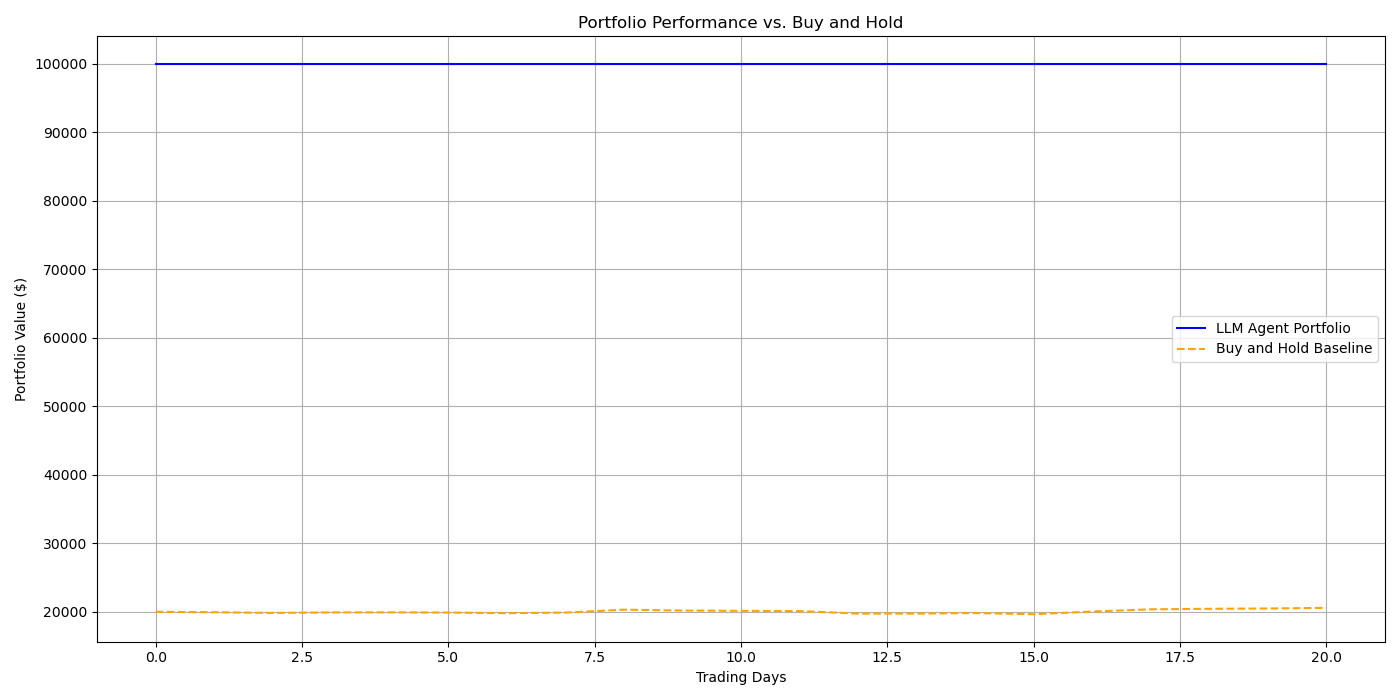
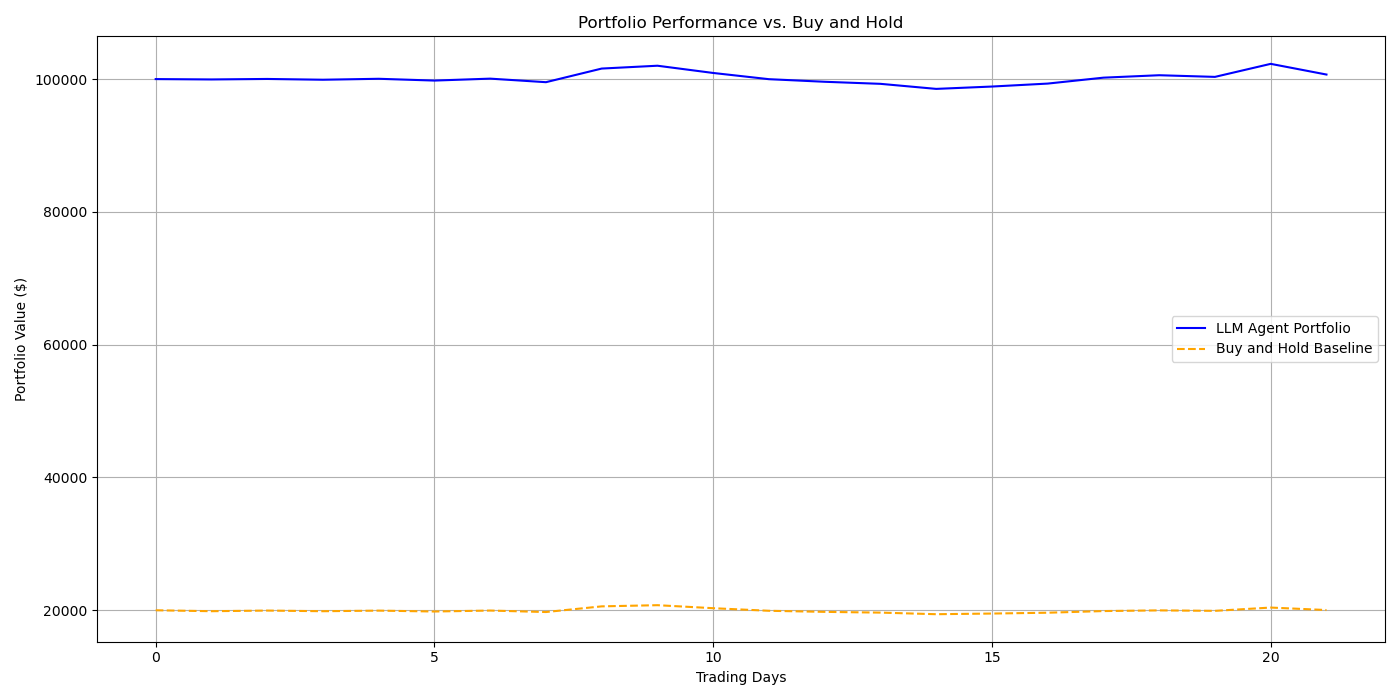
çalışıyor subanallah

diff --git a/src/llm_agent.py b/src/llm_agent.py
@@ -42,7 +42,6 @@ def get_llm_decision(prompt, available_tickers):
 
     try:
         # --- DEBUG: Log the prompt to see what data is being sent ---
-        # Changed from log.debug to log.info to ensure visibility in console
         log.info(f"Sending PROMPT to {provider}:\n{prompt}")
         
         result = None
@@ -100,10 +99,20 @@ def _get_openai_decision(prompt):
 def _get_openrouter_decision(prompt, model_config):
     alias = model_config['alias']
     def api_call():
+        # --- FIX: Add reasoning parameter to match curl request ---
+        payload = {
+            "model": model_config['model_name'],
+            "messages": [{"role": "user", "content": prompt}],
+            "reasoning": {"enabled": True}
+        }
+        
         response = clients['openrouter']['session'].post(
             url="https://openrouter.ai/api/v1/chat/completions",
-            headers={"Authorization": f"Bearer {config.OPEN_ROUTER_KEY}"},
-            data=json.dumps({"model": model_config['model_name'], "messages": [{"role": "user", "content": prompt}]})
+            headers={
+                "Authorization": f"Bearer {config.OPEN_ROUTER_KEY}",
+                "Content-Type": "application/json"
+            },
+            data=json.dumps(payload)
         )
         response.raise_for_status()
         return response.json()['choices'][0]['message']['content']

diff --git a/config.py b/config.py
@@ -7,7 +7,7 @@ load_dotenv()
 # --- Simulation Configuration ---
 TICKERS = ["AAPL", "MSFT", "NVDA", "TSLA", "AMZN"]
 INITIAL_CASH = 100000
-SIMULATION_DAYS = 7  # Reduced to 7 days (1 week) as requested
+SIMULATION_DAYS = 7
 
 # --- FIX: Use a fixed end date to avoid system clock issues ---
 EVALUATION_END_DATE = "2024-05-01" 
@@ -19,10 +19,12 @@ OPENAI_API_KEY = os.getenv("OPENAI_API_KEY")
 OPEN_ROUTER_KEY = os.getenv("OPEN_ROUTER_KEY")
 
 # --- LLM Provider Configuration ---
-LLM_PROVIDER = "gemini" 
+# Set to 'openrouter' to use Xiaomi Mimo V2 Flash
+LLM_PROVIDER = "openrouter"
 
 # --- Development Configuration ---
-DEV_MODE = os.getenv("DEV_MODE", "False").lower() in ('true', '1', 't')
+# Set to False to enable real API calls
+DEV_MODE = False
 
 # --- YAML Model Configuration ---
 OPENROUTER_MODELS = []

diff --git a/scripts/collect_data.py b/scripts/collect_data.py
@@ -90,8 +90,6 @@ def collect_news_data(start_date, end_date):
 if __name__ == "__main__":
     log.info("--- Starting Data Collection Script ---")
     
-    # --- FIX: Calculate dates once and pass them to both functions ---
-    # This ensures absolute consistency between market and news data periods.
     target_end_date = pd.to_datetime(config.EVALUATION_END_DATE)
     target_start_date = target_end_date - timedelta(days=30)
     